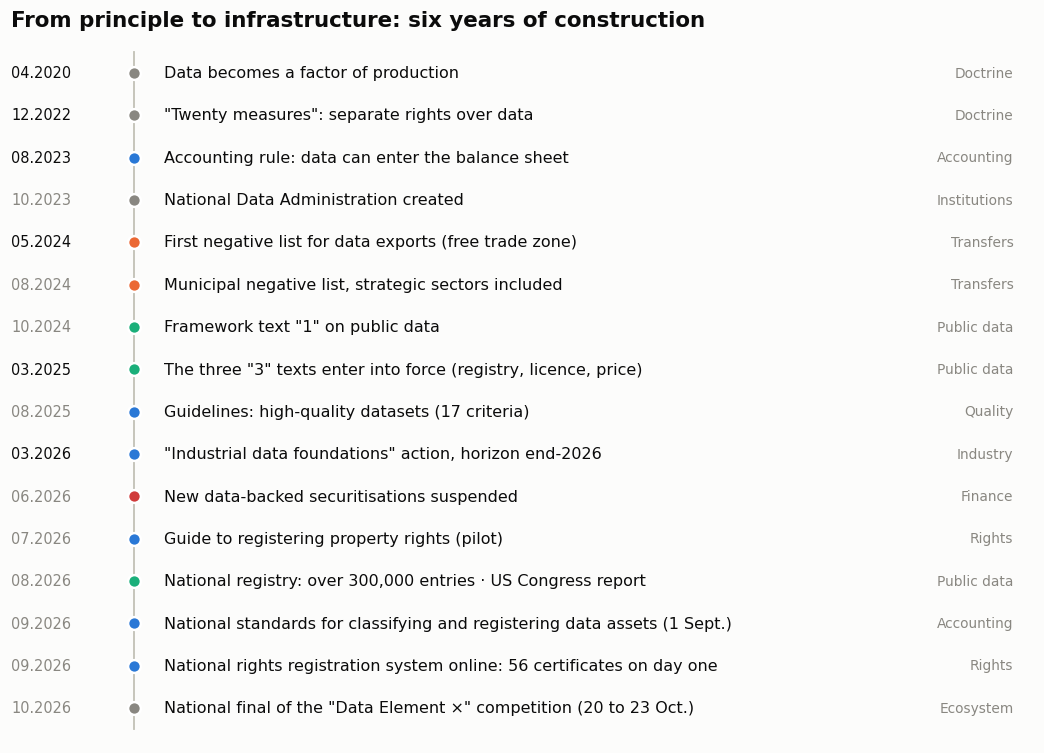
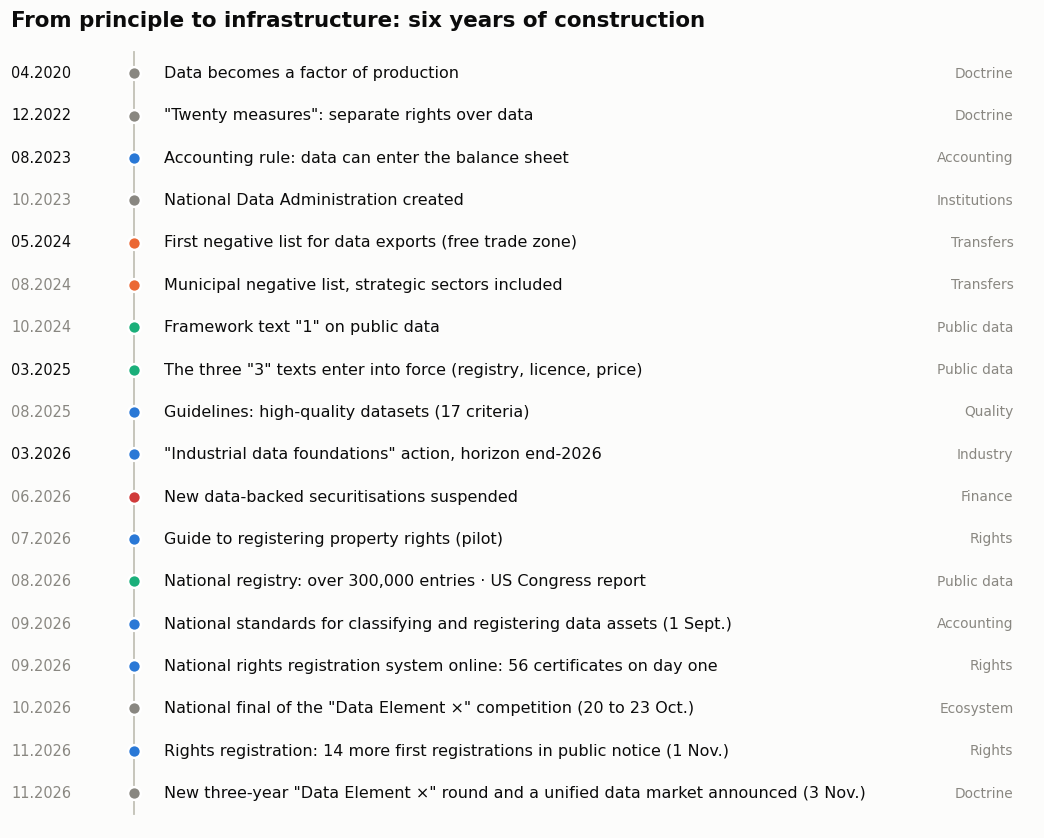
docs: update the regulatory watch to November 2026
Rights registration progress, new policy round, IASB October meeting, two 2026 preprints.

diff --git a/docs/index.html b/docs/index.html
@@ -35,7 +35,7 @@ footer{margin-top:64px;padding-top:20px;border-top:1px solid var(--line);font-si
 </head>
 <body>
 <main>
-<div class="k">Research framework · October 2026</div>
+<div class="k">Research framework · November 2026</div>
 <h1>Industrial Data Valuation</h1>
 <p class="lede">How can a portfolio of industrial datasets be valued as an intangible asset in a way that is transparent, reproducible and honest about its uncertainty?</p>
 <p class="note">All values are relative. They rank datasets against each other to decide where to act first; they are not an opposable price.</p>
@@ -71,7 +71,7 @@ footer{margin-top:64px;padding-top:20px;border-top:1px solid var(--line);font-si
 <figure><img src="https://raw.githubusercontent.com/Kukai-7/industrial-data-valuation/main/outputs/figures/priority_matrix.png" alt="Normalised value against regulatory exposure, with four priority groups"><figcaption>Value against regulatory exposure: four priority groups.</figcaption></figure>
 <figure><img src="https://raw.githubusercontent.com/Kukai-7/industrial-data-valuation/main/outputs/figures/sensitivity.png" alt="Sensitivity of the portfolio value to each assumption"><figcaption>One assumption at a time: income assumptions dominate.</figcaption></figure>
 <figure><img src="https://raw.githubusercontent.com/Kukai-7/industrial-data-valuation/main/outputs/figures/monte_carlo.png" alt="Monte Carlo ranges per dataset and for the portfolio"><figcaption>Ranges rather than points: 10,000 scenarios, fixed seed.</figcaption></figure>
-<figure><img src="https://raw.githubusercontent.com/Kukai-7/industrial-data-valuation/main/outputs/figures/regulatory_timeline.png" alt="Regulatory timeline of data as an asset, 2020 to 2026"><figcaption>Regulatory context of the jurisdiction studied, 2020 to 2026.</figcaption></figure>
+<figure><img src="https://raw.githubusercontent.com/Kukai-7/industrial-data-valuation/main/outputs/figures/regulatory_timeline.png" alt="Regulatory timeline of data as an asset, 2020 to 2026"><figcaption>Regulatory context of the jurisdiction studied, April 2020 to November 2026.</figcaption></figure>
 
 <h2>Market context</h2>
 <div class="grid">
@@ -79,6 +79,13 @@ footer{margin-top:64px;padding-top:20px;border-top:1px solid var(--line);font-si
 <div class="tile"><b>$0.7bn → $1.3bn</b><span>healthcare data valorisation market, 2026 to 2031, 14.5% a year (MarketsandMarkets)</span></div>
 </div>
 <p>The European Health Data Space sets March 2027 for key implementing acts, before application phases in 2029 and 2031. These are research-vendor figures for another sector, not audited: an order of magnitude and a check on method, not a price comparable.</p>
+
+<h2>Autumn 2026</h2>
+<dl>
+<dt>Rights registration is live but thin</dt><dd>In trial operation since 11 September: 56 certificates on day one, three registration bodies, 14 further first registrations in public notice as of 1 November.</dd>
+<dt>A new policy round</dt><dd>Announced on 3 November for the next five-year plan period: a unified national data market, market-based pricing and revenue sharing. No figures yet.</dd>
+<dt>No move on international standards</dt><dd>The IASB discussed recognition options for IAS 38 on 27 October and took no decision. Data is still not named.</dd>
+</dl>
 
 <h2>Reproducibility</h2>
 <p>Python 3.13, fixed seed 2026, no external data: <em>Run All</em> recomputes every figure. Code under the MIT License; text, figures and data under CC BY 4.0.</p>

diff --git a/README.md b/README.md
@@ -46,6 +46,16 @@ These are research-vendor figures for another sector, not audited: an order of m
 
 A dataset has to be booked before it can be valued. Since 1 January 2024, China's Ministry of Finance lets companies carry qualifying data resources as intangible assets or inventory, disclosed as a roll-forward: opening, additions, reductions, closing. That is the four-column identity of the Ming state accounts, traced in [Ming–Qing Ledgers](https://github.com/Kukai-7/ming-qing-ledgers).
 
+## What changed in autumn 2026
+
+The watch in notebook 01 runs to November 2026. Three developments since the first version:
+
+- **Rights registration is live but thin.** The national data property registration system has run in trial operation since 11 September 2026: 56 certificates on day one, three registration bodies, and 14 further first registrations in public notice as of 1 November. It is the link between a compliant dataset and an asset; volumes are too small to read as a market signal.
+- **A new policy round.** On 3 November 2026 the national data authority announced a new three-year round of its data-use action for the next five-year plan period, with a unified national data market and market-based pricing and revenue sharing. No figures were given.
+- **No move yet on international standards.** On 27 October 2026 the IASB discussed options for changing some recognition requirements of IAS 38, tested on agile software development, and took no decision. Data is still not named in the project.
+
+Two 2026 preprints reach a similar architecture: an auditable cost basis kept apart from a commercial value that is not fair value (Blycha et al., arXiv:2606.22760), and quality modelled as management, standard conformity and realised benefit, weighted in part by AHP (Zhu et al., arXiv:2606.26186). Neither is peer-reviewed; full references are in notebook 01.
+
 ## Reproducibility
 
 - Python 3.13; packages in [`requirements.txt`](requirements.txt).
